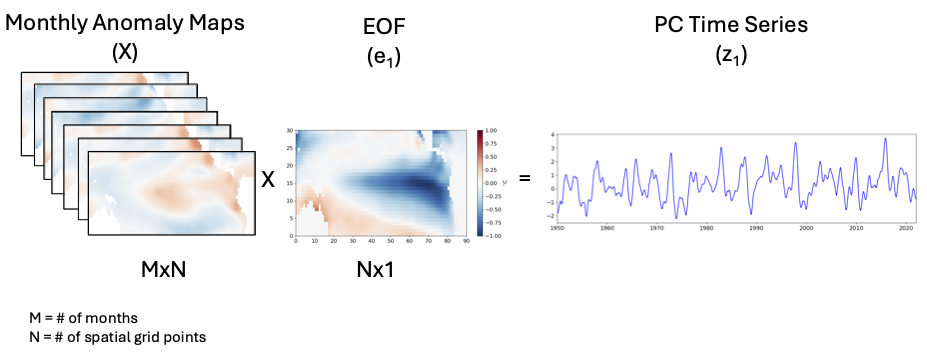
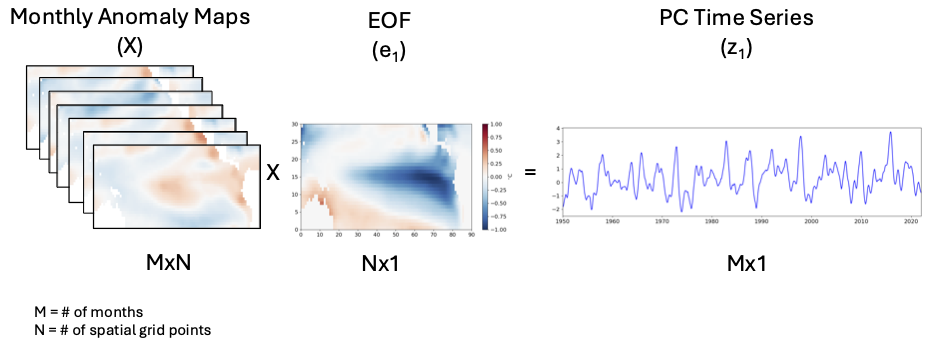
Update documentation

diff --git a/chapters/Week7/eofs.html b/chapters/Week7/eofs.html
@@ -552,7 +552,7 @@ document.write(`
 \]</div>
 <p><a class="reference internal" href="#pc-ts"><span class="std std-ref">Figure 27</span></a> provides a visual representation of what this looks like for the sea-level pressure anomaly data.</p>
 <figure class="align-default" id="pc-ts">
-<a class="reference internal image-reference" href="../../_images/pc_ts_rev.png"><img alt="../../_images/pc_ts_rev.png" src="../../_images/pc_ts_rev.png" style="width: 556.1999999999999px; height: 211.79999999999998px;" />
+<a class="reference internal image-reference" href="../../_images/pc_ts_rev.png"><img alt="../../_images/pc_ts_rev.png" src="../../_images/pc_ts_rev.png" style="width: 696.75px; height: 258.75px;" />
 </a>
 <figcaption>
 <p><span class="caption-number">Fig. 27 </span><span class="caption-text">Visualizing EOF/PC spatial patterns and time series using daily sea-level pressure (mb) anomalies. <strong>X</strong> is the data matrix and <span class="math notranslate nohighlight">\(\mathbf{e_1}\)</span> is the eigenvector that explains the largest fraction of the variability in <strong>X</strong>. <span class="math notranslate nohighlight">\(\mathbf{z_1}\)</span> is linear transformation of <strong>X</strong> onto the <span class="math notranslate nohighlight">\(\mathbf{e_1}\)</span> basis vector.</span><a class="headerlink" href="#pc-ts" title="Link to this image">#</a></p>
